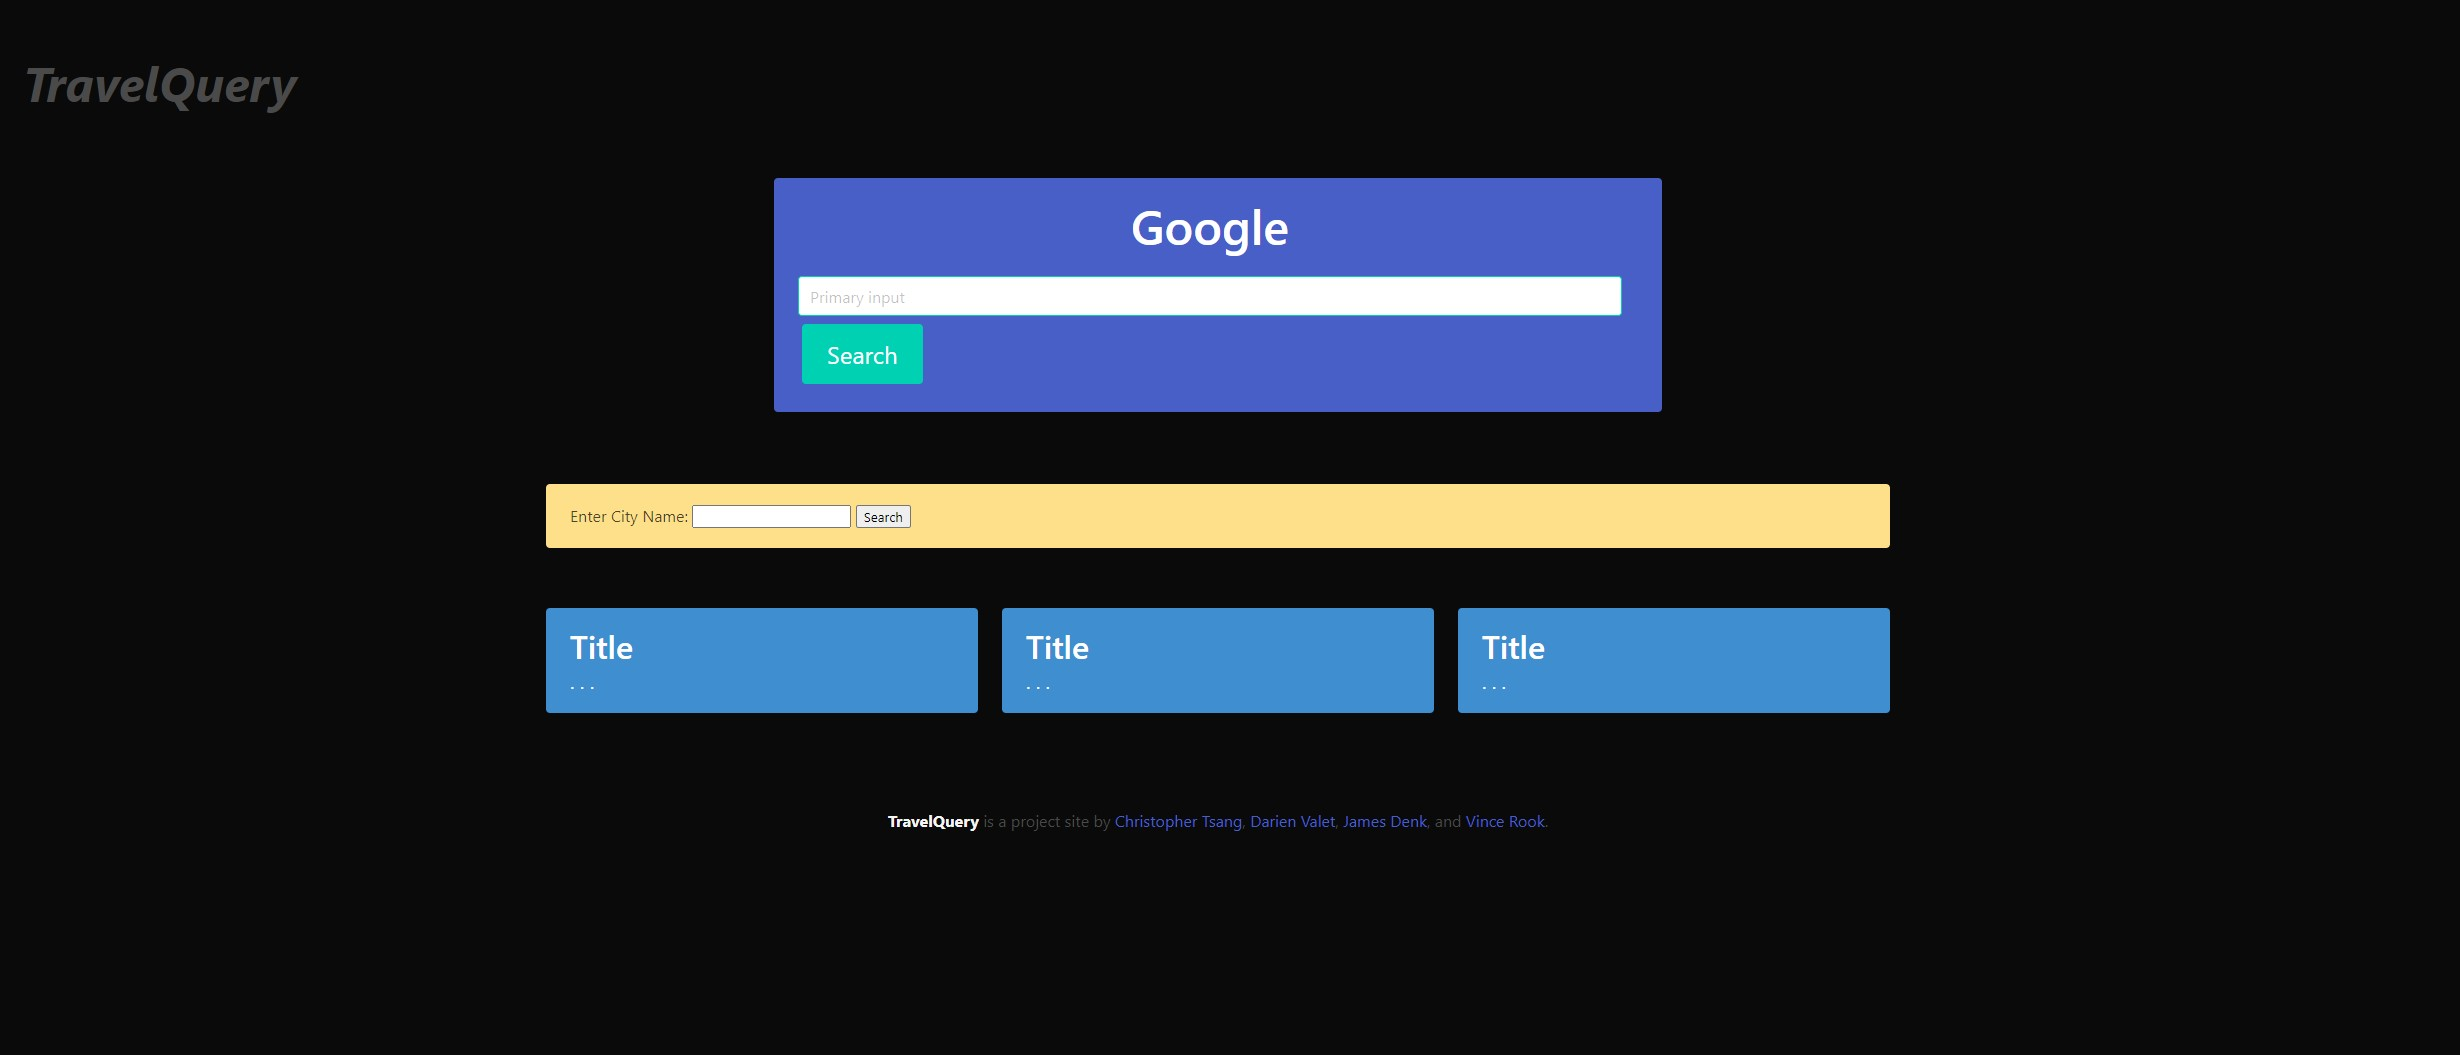
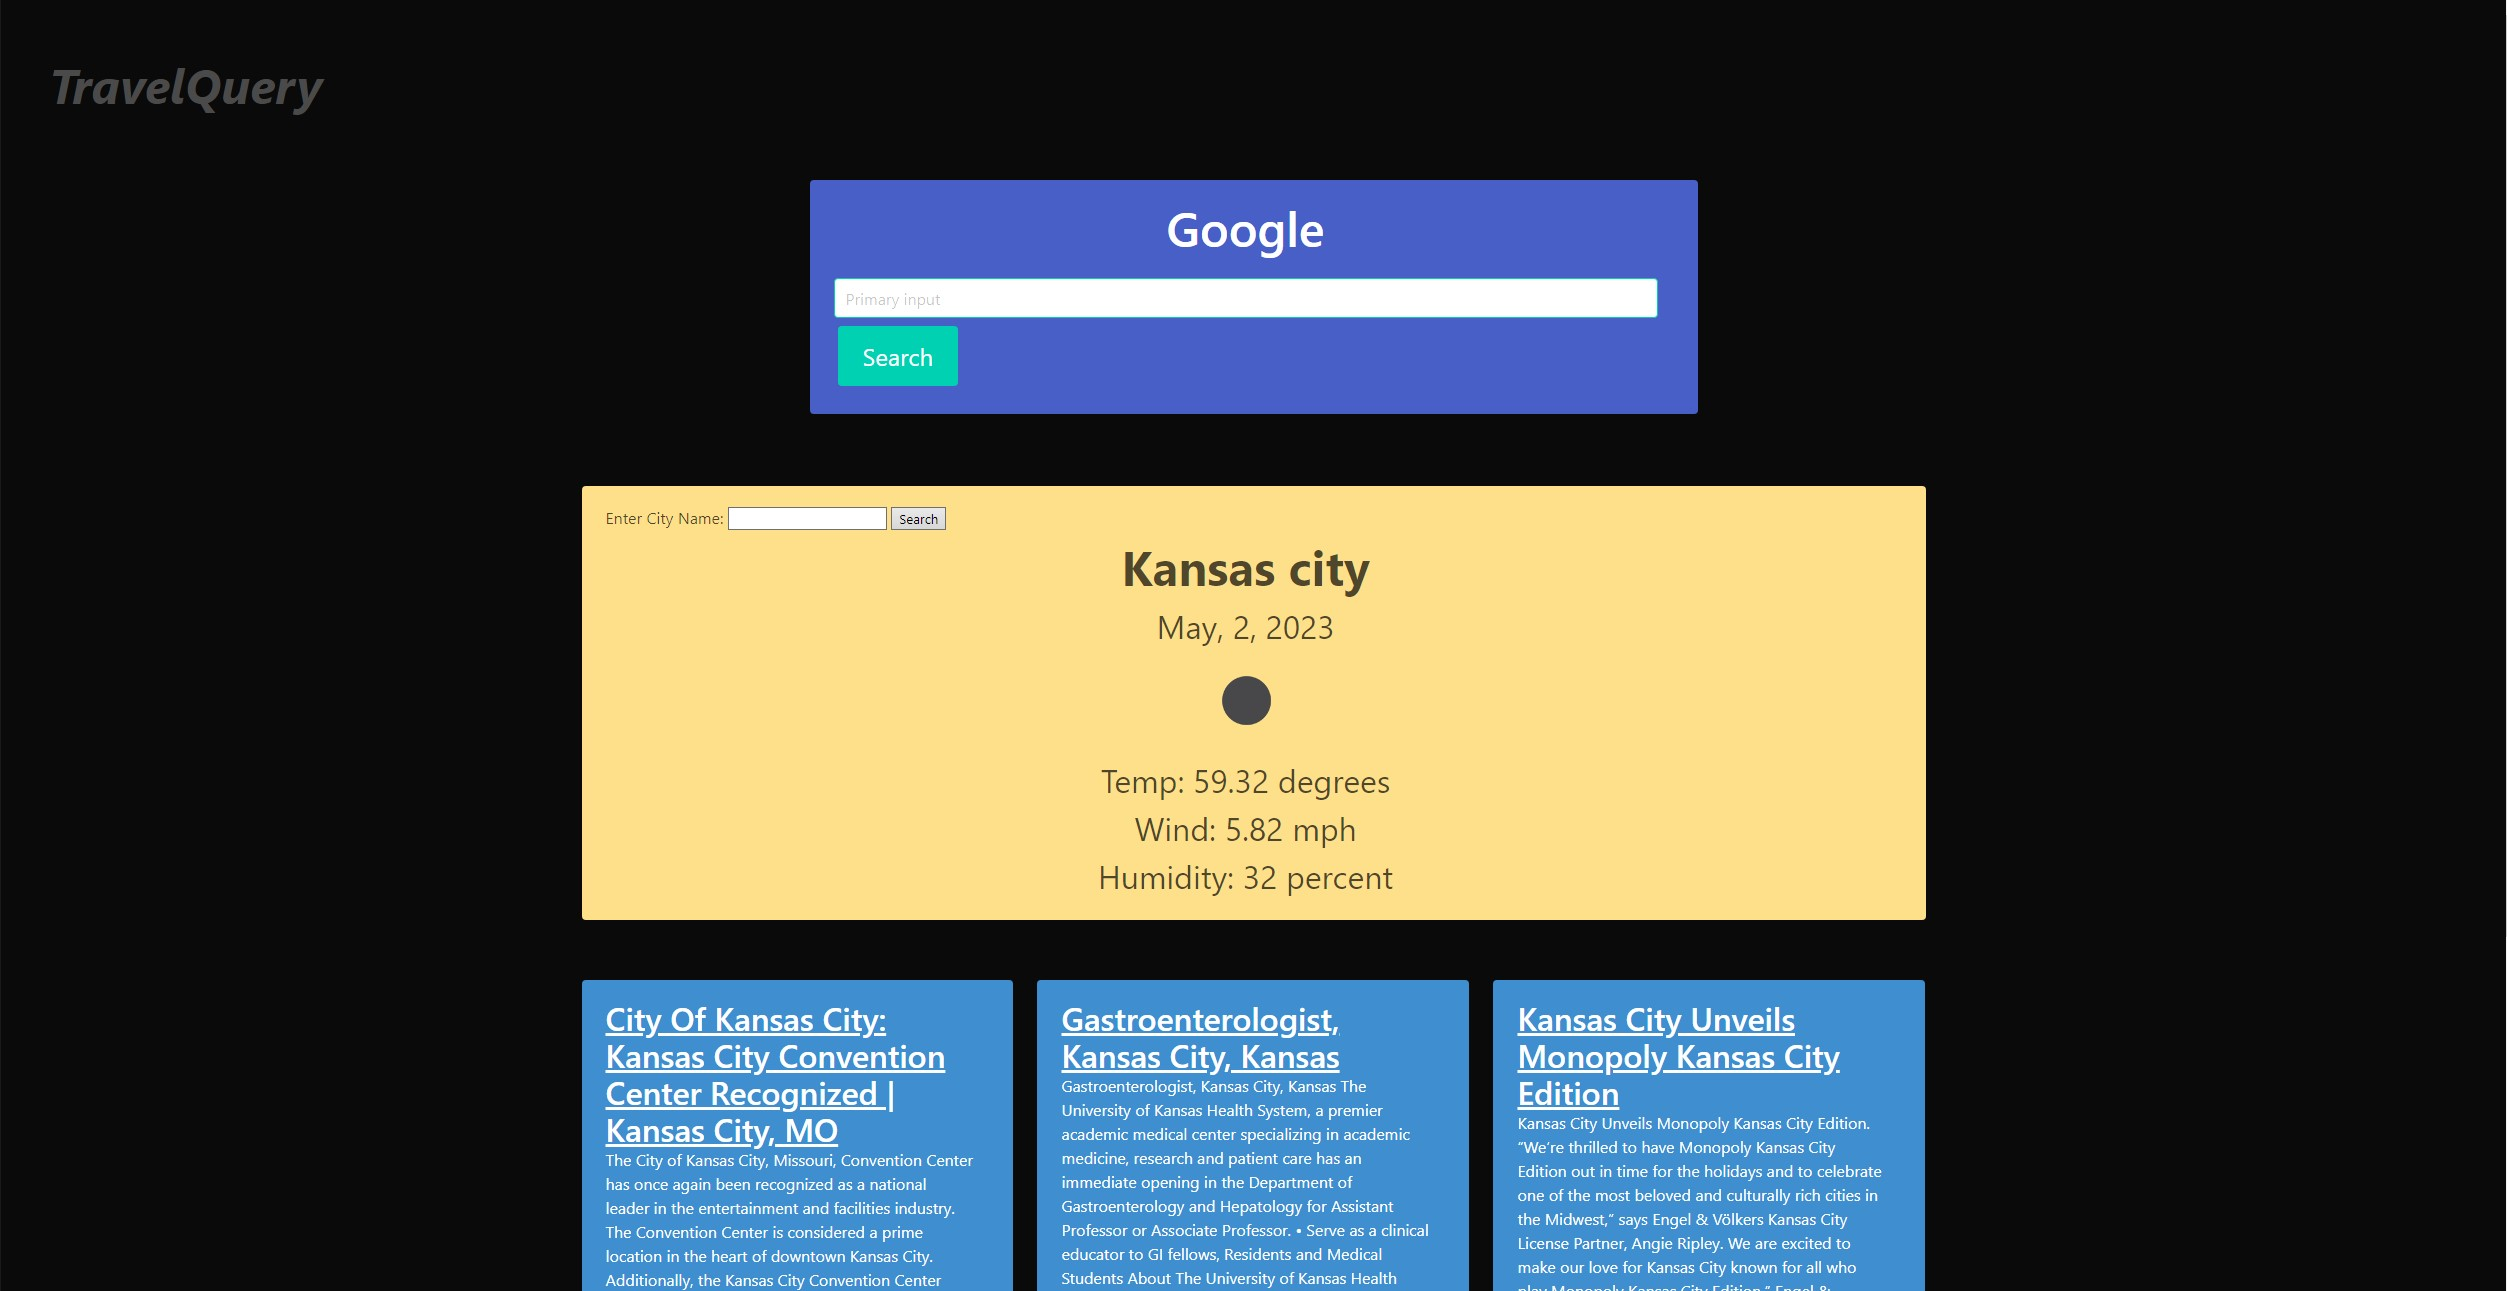
Made finishing touches to script.js, made finishing touches to the README

diff --git a/assets/js/script.js b/assets/js/script.js
@@ -195,7 +195,7 @@ function createNewsCard(headlines) {
     headlineEl.textContent = headlines.title;
     headlineEl.setAttribute('href', headlines.url)
 
-    var storyEl = document.createElement('a');
+    var storyEl = document.createElement('p');
     storyEl.textContent = headlines.summary;
 
     tileEl.append(headlineEl, storyEl);
